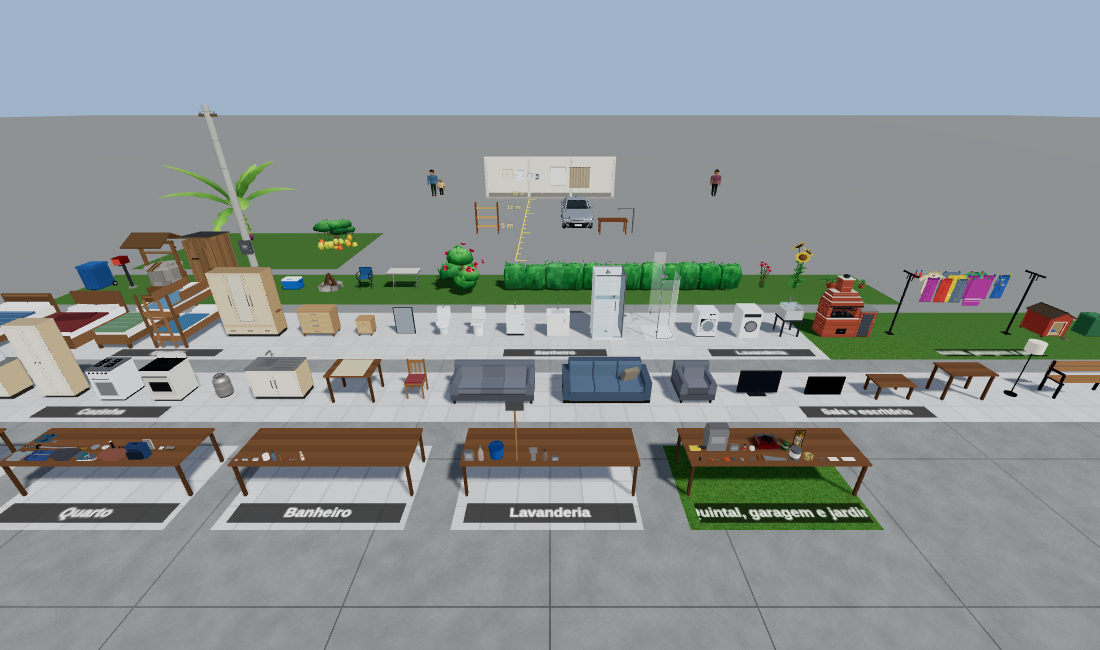
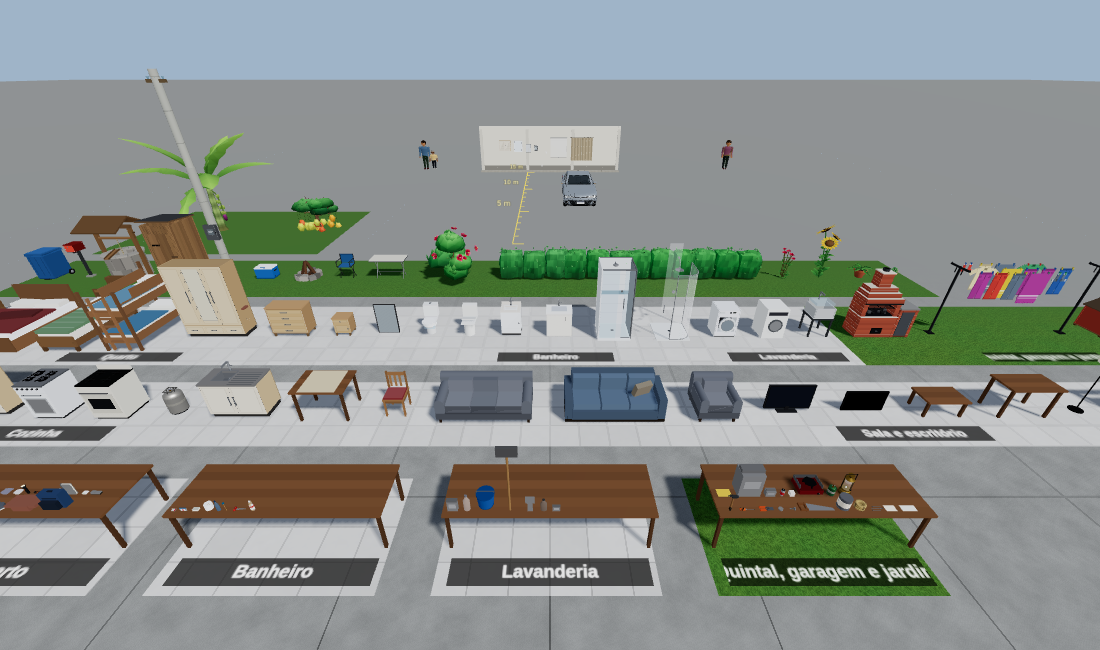
refactor(test-room): spawn options object; the area reads the floor's front from the room

diff --git a/examples/interactables-test-area/src/house-tables-layout.ts b/examples/interactables-test-area/src/house-tables-layout.ts
@@ -19,16 +19,12 @@ const TABLE_EDGE = 0.08
 /** Height the things on a table are let go from above its top, metres. */
 const DROP = 0.01
 
-/**
- * What to lay and where: the rooms, the half width (x) of the strip the lines run in, the z of the front edge of the first line, what goes on the wall, and
- * the half size of the floor of the page the area opens on (the camera starts inside it).
- */
+/** What to lay and where: the rooms, the half width (x) of the strip the lines run in, the z of the front edge of the first line and what goes on the wall. */
 export interface HousePlan {
   readonly sections: readonly HouseSection[]
   readonly halfX: number
   readonly firstZ: number
   readonly wall: readonly string[]
-  readonly floorHalf: number
 }
 
 /** What the layout made: the area, its floor (a zone per room, labelled), and the ids the room's catalogue does not have (left out). */
@@ -171,10 +167,10 @@ function onTheWall(pieces: readonly Piece[]): { placements: AreaPlacement[]; lef
 }
 
 /**
- * Lays `plan`. `measure` is the room's (`TestRoom.measure`): null for an id the room did not load, which is left out and listed in `missing`.
+ * Lays `plan`; `floorFront` is the z of the front edge of the floor the area opens on (the camera starts inside it). `measure` is the room's (`TestRoom.measure`): null for an id the room did not load, which is left out and listed in `missing`.
  * The tables are the items area's finds table, laid with a `surface` so what lies on them rests on their top.
  */
-export function layHouseTables(measure: (itemId: string) => ItemSize | null, locale: Locale, plan: HousePlan): HouseTablesLayout {
+export function layHouseTables(measure: (itemId: string) => ItemSize | null, locale: Locale, plan: HousePlan & { readonly floorFront: number }): HouseTablesLayout {
   const missing: string[] = []
   const pieceOf = (item: string): Piece[] => {
     const size = measure(item)
@@ -247,7 +243,7 @@ export function layHouseTables(measure: (itemId: string) => ItemSize | null, loc
 
   return {
     // the camera starts in front of the first tables, inside the floor (the player is put where the view says, unclamped)
-    area: { placements, view: { eye: [0, 6.5, Math.min(plan.firstZ + 6, plan.floorHalf - 0.7)], target: [0, 0.6, plan.firstZ - 6] } },
+    area: { placements, view: { eye: [0, 6.5, Math.min(plan.firstZ + 6, plan.floorFront - 0.7)], target: [0, 0.6, plan.firstZ - 6] } },
     ground: { surface: GROUND_SURFACE, zones },
     missing,
     onTables,

diff --git a/examples/interactables-test-area/src/house-tables.ts b/examples/interactables-test-area/src/house-tables.ts
@@ -21,7 +21,7 @@ export const HOUSE_TABLES_KITCHEN_ID = 'house_tables_kitchen'
 export const MISSING_LOG = 'house_tables_missing'
 
 /** The whole house: a strip 36 m wide from z = 19 back to the target wall (the page opens a floor 24 m each way for it). */
-const WHOLE_HOUSE: HousePlan = { sections: SECTIONS, halfX: 18, firstZ: 19, wall: ON_THE_WALL, floorHalf: 24 }
+const WHOLE_HOUSE: HousePlan = { sections: SECTIONS, halfX: 18, firstZ: 19, wall: ON_THE_WALL }
 const KITCHEN_WALL = new Set(['kitchen_cabinet_wall', 'wall_socket', 'wall_switch'])
 /** The kitchen alone: in front of the plain room's scenery (its tables, shelf and tub stand between z = -1 and 4), well inside its 14 m floor so a blast keeps what it throws on it. */
 const KITCHEN: HousePlan = {
@@ -29,13 +29,13 @@ const KITCHEN: HousePlan = {
   halfX: 9,
   firstZ: 10.5,
   wall: ON_THE_WALL.filter((item) => KITCHEN_WALL.has(item)),
-  floorHalf: 14,
 }
 
-/** What the area modules need from the room: its measure of a catalogue item (null for an id it did not load). */
+/** What the area modules need from the room: its measure of a catalogue item (null for an id it did not load) and the z of the front edge of its floor. */
 export interface HouseTablesOptions {
   readonly locale?: string
   readonly measure: (itemId: string) => ItemSize | null
+  readonly floorFront: () => number
 }
 
 const localeOf = (locale: string | undefined): Locale => (locale === 'en' ? 'en' : 'pt-BR')
@@ -158,7 +158,7 @@ function areaModule(options: HouseTablesOptions, spec: { readonly id: string; re
   let host: ModuleHost | null = null
   const layout = (): HouseTablesLayout => {
     if (made) return made
-    made = layHouseTables(options.measure, locale, spec.plan)
+    made = layHouseTables(options.measure, locale, { ...spec.plan, floorFront: options.floorFront() })
     // a piece the room did not load (a module left out, a wrong id) is said once, in the room's log, where the checks look for it
     if (made.missing.length > 0) host?.log(`${name}: ${made.missing.join(', ')}`, { missing: made.missing }, MISSING_LOG)
     return made

diff --git a/packages/game-test-room/src/room.ts b/packages/game-test-room/src/room.ts
@@ -1377,8 +1377,9 @@ export function createTestRoom(options: TestRoomOptions): TestRoom {
     }
   }
 
+  const spawn = (itemId: string, position?: Vec3, rotationY?: number): SpawnedObject => spawnPiece(itemId, { position, rotationY })
   // `fixed`: held where it is put, with no physics of its own (an area's piece hung on a wall), whatever the item says
-  const spawn = (itemId: string, position?: Vec3, rotationY?: number, fixed = false): SpawnedObject => {
+  function spawnPiece(itemId: string, { position, rotationY, fixed = false }: { readonly position?: Vec3; readonly rotationY?: number; readonly fixed?: boolean }): SpawnedObject {
     const item = catalogMap.get(itemId)
     if (!item) throw new Error(`game-test-room: unknown item "${itemId}"`)
     const root = buildRoot(item)
@@ -4945,7 +4946,7 @@ export function createTestRoom(options: TestRoomOptions): TestRoom {
     const holders = known.filter((p) => p.surface)
     const rest = known.filter((p) => !p.surface)
     const placed = [...holders, ...rest].map((p) => {
-      const so = spawn(p.item, p.position, p.rotationY ?? 0, p.fixed === true)
+      const so = spawnPiece(p.item, { position: p.position, rotationY: p.rotationY ?? 0, fixed: p.fixed === true })
       if (p.surface) {
         const [hx, hz] = p.surface.halfSize
         restingTops.push({ objectId: so.objectId, minX: p.position[0] - hx, maxX: p.position[0] + hx, minZ: p.position[2] - hz, maxZ: p.position[2] + hz, top: p.surface.height })

diff --git a/examples/interactables-test-area/src/entry.js b/examples/interactables-test-area/src/entry.js
@@ -201,7 +201,7 @@ function loadSteps(room, options, lang) {
   mod('stories', () => createStoriesModule({ locale: lang }))
   // the house and the yard on tables (`?area=house_tables`, and the kitchen alone, `?area=house_tables_kitchen`): what every module above brings for a house, laid room by
   // room, to shoot and blow up side by side. The layout is made when the area opens, by the room's measure of each piece.
-  const [houseTables, houseTablesKitchen] = createHouseTablesAreas({ locale: lang, measure: (itemId) => room.measure(itemId) })
+  const [houseTables, houseTablesKitchen] = createHouseTablesAreas({ locale: lang, measure: (itemId) => room.measure(itemId), floorFront: () => room.terrain.bounds[3] })
   mod('houseTables', () => houseTables)
   mod('houseTablesKitchen', () => houseTablesKitchen)
   // the furniture comes last: its report is the base of the whole one
